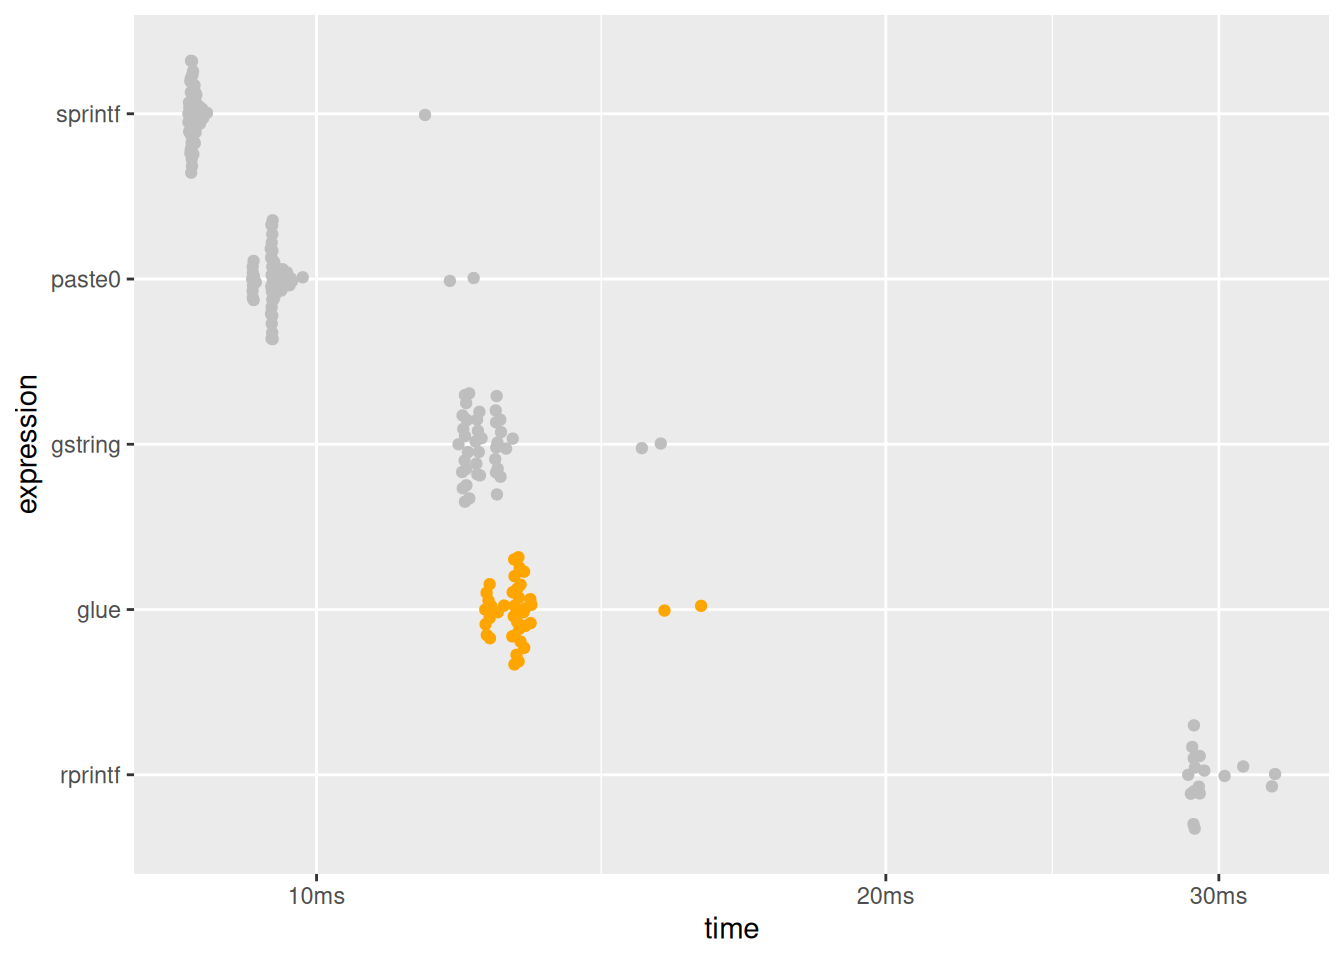
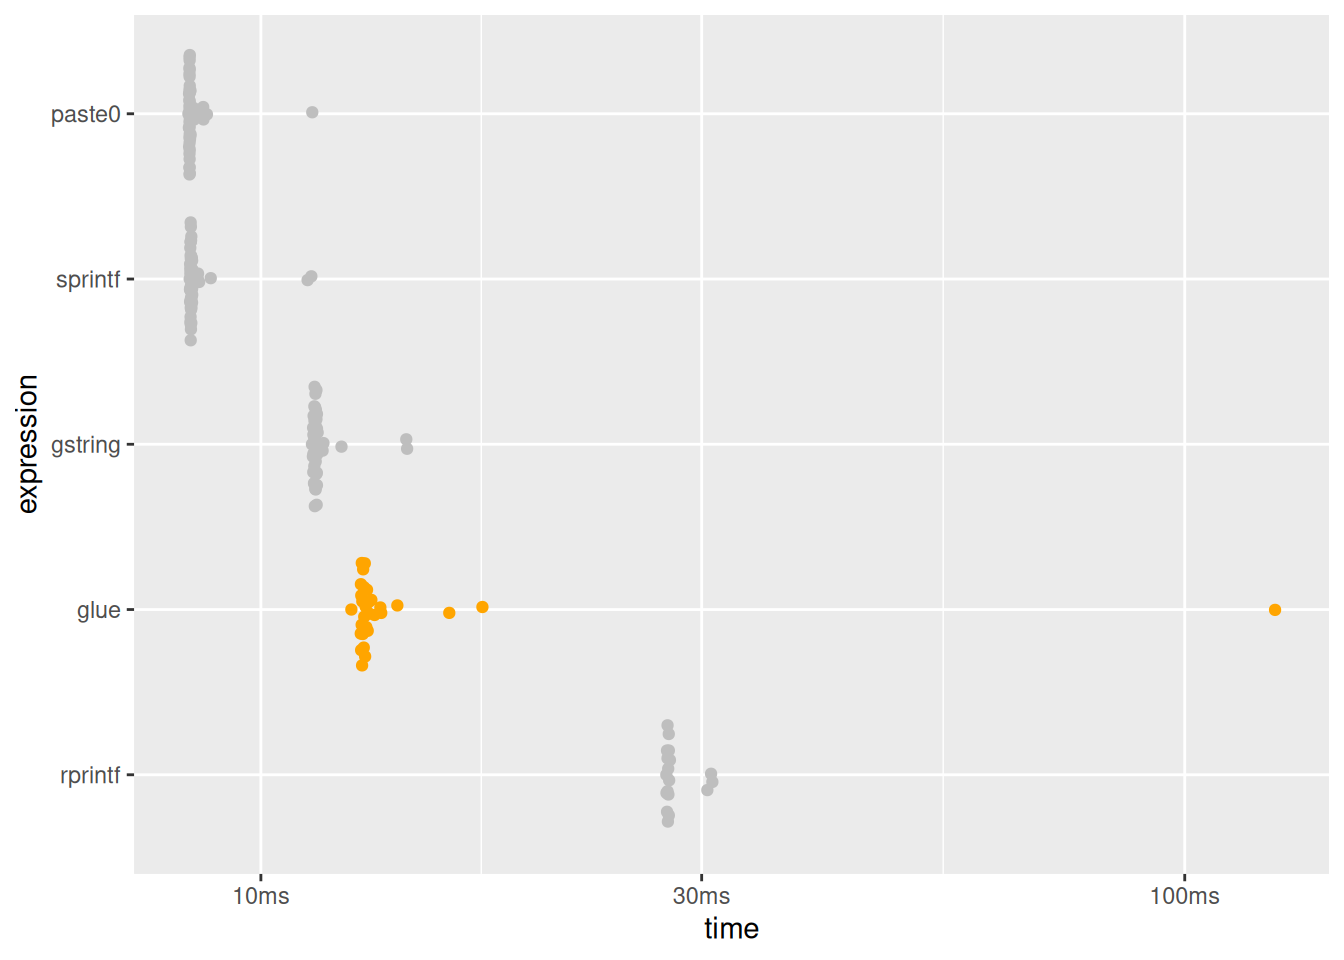
Deploying to gh-pages from @ tidyverse/glue@c9f9abb02a1566e2a9d260c80aa566f83861e077 🚀

diff --git a/dev/articles/speed.html b/dev/articles/speed.html
@@ -148,11 +148,11 @@
 <span><span class="co">#&gt; # A tibble: 5 × 6</span></span>
 <span><span class="co">#&gt;   expression      min   median `itr/sec` mem_alloc `gc/sec`</span></span>
 <span><span class="co">#&gt;   &lt;bch:expr&gt; &lt;bch:tm&gt; &lt;bch:tm&gt;     &lt;dbl&gt; &lt;bch:byt&gt;    &lt;dbl&gt;</span></span>
-<span><span class="co">#&gt; 1 sprintf    691.04ns 781.03ns  1168142.        0B     0   </span></span>
-<span><span class="co">#&gt; 2 paste0       1.42µs   1.64µs   587918.        0B     0   </span></span>
-<span><span class="co">#&gt; 3 glue        72.98µs  78.57µs    12219.  141.73KB    12.5 </span></span>
-<span><span class="co">#&gt; 4 gstring    184.84µs 195.76µs     5002.    2.46MB     8.20</span></span>
-<span><span class="co">#&gt; 5 rprintf     253.3µs 266.61µs     3699.  504.02KB     4.05</span></span>
+<span><span class="co">#&gt; 1 sprintf       751ns 801.05ns  1164863.        0B     0   </span></span>
+<span><span class="co">#&gt; 2 paste0        1.4µs   1.54µs   607350.        0B     0   </span></span>
+<span><span class="co">#&gt; 3 glue         94.2µs  100.4µs     9521.  141.73KB    10.4 </span></span>
+<span><span class="co">#&gt; 4 gstring     222.2µs 235.28µs     4140.    2.46MB     6.11</span></span>
+<span><span class="co">#&gt; 5 rprintf     276.4µs 288.44µs     3394.  504.02KB     4.05</span></span>
 <span></span>
 <span><span class="co"># plotting function defined in a hidden chunk</span></span>
 <span><span class="fu">plot_comparison</span><span class="op">(</span><span class="va">simple</span><span class="op">)</span></span></code></pre></div>
@@ -189,11 +189,11 @@
 <span><span class="co">#&gt; # A tibble: 5 × 6</span></span>
 <span><span class="co">#&gt;   expression      min   median `itr/sec` mem_alloc `gc/sec`</span></span>
 <span><span class="co">#&gt;   &lt;bch:expr&gt; &lt;bch:tm&gt; &lt;bch:tm&gt;     &lt;dbl&gt; &lt;bch:byt&gt;    &lt;dbl&gt;</span></span>
-<span><span class="co">#&gt; 1 sprintf      8.55ms    8.6ms     116.    781.3KB     2.04</span></span>
-<span><span class="co">#&gt; 2 paste0       9.25ms   9.47ms     106.    781.3KB     4.14</span></span>
-<span><span class="co">#&gt; 3 gstring     11.89ms  12.16ms      81.9    1.53MB     4.20</span></span>
-<span><span class="co">#&gt; 4 glue        12.28ms  12.73ms      78.9    2.29MB     4.27</span></span>
-<span><span class="co">#&gt; 5 rprintf      28.9ms  29.13ms      34.1    3.05MB     4.54</span></span>
+<span><span class="co">#&gt; 1 paste0       8.35ms   8.38ms     119.    781.3KB     2.05</span></span>
+<span><span class="co">#&gt; 2 sprintf      8.38ms    8.4ms     119.    781.3KB     4.16</span></span>
+<span><span class="co">#&gt; 3 gstring     11.36ms  11.45ms      87.1    1.53MB     4.15</span></span>
+<span><span class="co">#&gt; 4 glue        12.53ms  12.94ms      76.8    2.29MB     8.53</span></span>
+<span><span class="co">#&gt; 5 rprintf     27.47ms  27.59ms      36.0    3.05MB     4.50</span></span>
 <span></span>
 <span><span class="co"># plotting function defined in a hidden chunk</span></span>
 <span><span class="fu">plot_comparison</span><span class="op">(</span><span class="va">vectorized</span><span class="op">)</span></span></code></pre></div>

diff --git a/dev/articles/speed.md b/dev/articles/speed.md
@@ -65,11 +65,11 @@ simple |>
 #> # A tibble: 5 × 6
 #>   expression      min   median `itr/sec` mem_alloc `gc/sec`
 #>   <bch:expr> <bch:tm> <bch:tm>     <dbl> <bch:byt>    <dbl>
-#> 1 sprintf    691.04ns 781.03ns  1168142.        0B     0   
-#> 2 paste0       1.42µs   1.64µs   587918.        0B     0   
-#> 3 glue        72.98µs  78.57µs    12219.  141.73KB    12.5 
-#> 4 gstring    184.84µs 195.76µs     5002.    2.46MB     8.20
-#> 5 rprintf     253.3µs 266.61µs     3699.  504.02KB     4.05
+#> 1 sprintf       751ns 801.05ns  1164863.        0B     0   
+#> 2 paste0        1.4µs   1.54µs   607350.        0B     0   
+#> 3 glue         94.2µs  100.4µs     9521.  141.73KB    10.4 
+#> 4 gstring     222.2µs 235.28µs     4140.    2.46MB     6.11
+#> 5 rprintf     276.4µs 288.44µs     3394.  504.02KB     4.05
 
 # plotting function defined in a hidden chunk
 plot_comparison(simple)
@@ -125,11 +125,11 @@ vectorized |>
 #> # A tibble: 5 × 6
 #>   expression      min   median `itr/sec` mem_alloc `gc/sec`
 #>   <bch:expr> <bch:tm> <bch:tm>     <dbl> <bch:byt>    <dbl>
-#> 1 sprintf      8.55ms    8.6ms     116.    781.3KB     2.04
-#> 2 paste0       9.25ms   9.47ms     106.    781.3KB     4.14
-#> 3 gstring     11.89ms  12.16ms      81.9    1.53MB     4.20
-#> 4 glue        12.28ms  12.73ms      78.9    2.29MB     4.27
-#> 5 rprintf      28.9ms  29.13ms      34.1    3.05MB     4.54
+#> 1 paste0       8.35ms   8.38ms     119.    781.3KB     2.05
+#> 2 sprintf      8.38ms    8.4ms     119.    781.3KB     4.16
+#> 3 gstring     11.36ms  11.45ms      87.1    1.53MB     4.15
+#> 4 glue        12.53ms  12.94ms      76.8    2.29MB     8.53
+#> 5 rprintf     27.47ms  27.59ms      36.0    3.05MB     4.50
 
 # plotting function defined in a hidden chunk
 plot_comparison(vectorized)
